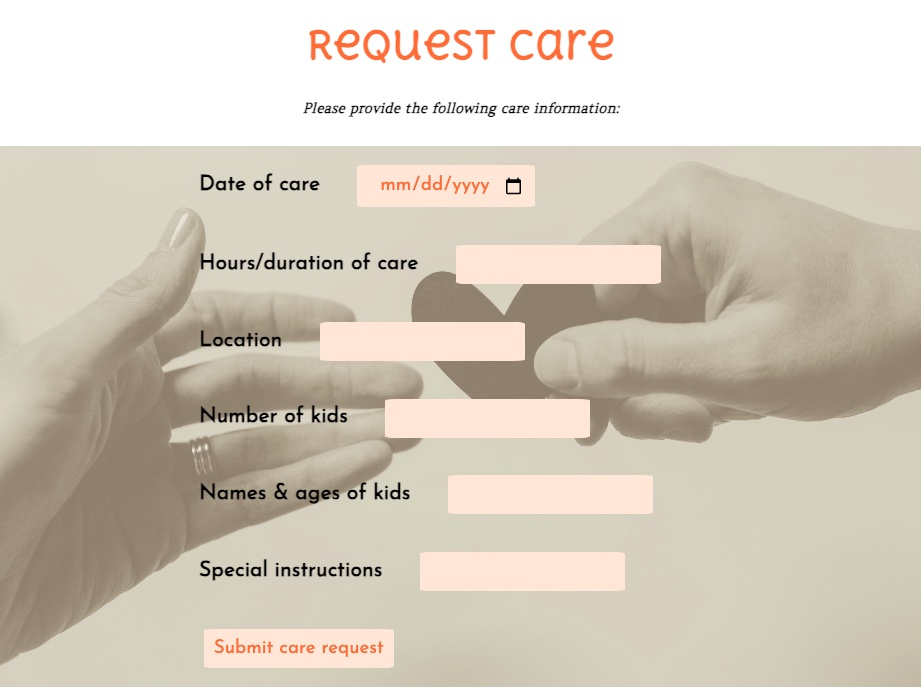
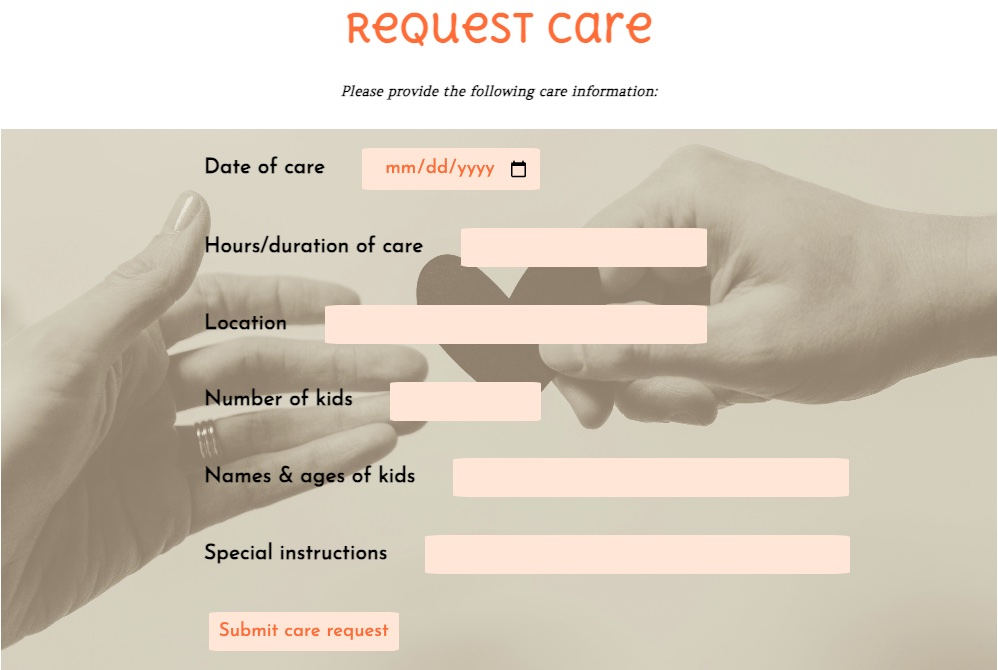
update CSS, views, README, and controllers

diff --git a/controllers/fulfillments.js b/controllers/fulfillments.js
@@ -33,8 +33,6 @@ async function create(req, res) {
 
 async function deleteRequest(req, res) {
   const child = await Child.findOne({ "fulfilled._id": req.params.id, "fulfilled.user": req.user._id });
-  // if (!child) return res.redirect("/children");
-  console.log(`The child object is ${child}`);
   child.fulfilled.remove(req.params.id);
   await child.save();
   res.redirect(`/children/${child._id}`);

diff --git a/controllers/children.js b/controllers/children.js
@@ -39,9 +39,6 @@ async function create(req, res) {
 }
 
 async function deleteRequest(req, res) {
-  const child = await Child.findOne({ _id: req.params.id });
-  if (!child) return res.redirect("/children");
-  child.remove(req.params.id);
-  await child.save();
+  await Child.deleteOne({ _id: req.params.id, user: req.user._id });
   res.redirect("/children");
 }

diff --git a/public/stylesheets/style.css b/public/stylesheets/style.css
@@ -59,7 +59,7 @@ h4 {
   font-size: 4vmin;
 }
 
-input {
+input, button {
   background-color: rgb(255, 229, 212);
   border-radius: 5%;
   border-color: rgb(255, 229, 212);

diff --git a/README.md b/README.md
@@ -4,7 +4,7 @@
 <br />
 <div align="center">
 
-<img src="./public/images/Vibrant_Village_Header.jpg" alt="Vibrant Village" height="200" width="500"/>
+<img src="./public/images/Vibrant_Village_Header.jpg" alt="Vibrant Village" height="150" width="700"/>
 
 <h2 align="center">
     <a href="https://vibrant-village-6e72f0c47e7c.herokuapp.com/" target="_blank" rel="noopener noreferrer" >Vibrant Village</a>
@@ -33,14 +33,14 @@
 
 ## About The Project
 
-<p><span style="font-weight:bold">Raising the next generation doesn't have to take the life out of you.</span>Most modern caregivers don't have access to the village support system of generations past. We created Vibrant Village so that your family can grow and thrive while surrounded by a customizable community of support.</p>
+<p><span style="font-weight:bolder">Raising the next generation doesn't have to take the life out of you.</span> Most modern caregivers don't have access to the village support system of generations past. We created Vibrant Village so that your family can grow and thrive while surrounded by a customizable community of support.</p>
 
 <p align="right">(<a href="#readme-top">back to top</a>)</p>
 
 ## Game Images
 
 <img src="./public/images/Vibrant_Village_Homepage.jpg" alt="Vibrant Village Homepage" height="600" width="450" display="inline-block"/>
-<img src="./public/images/Vibrant_Village_Header.jpg" alt="Vibrant Village Care Needs" height="550" width="480" display="inline-block"/>
+<img src="./public/images/Vibrant_Village_Schedule.jpg" alt="Vibrant Village Care Needs" height="400" width="600" display="inline-block"/>
 <img src="./public/images/Vibrant_Village_Request_Care_Page.jpg" alt="Vibrant Village Request Care Page" height="400" width="550" display="inline-block"/>
 
 <p align="right">(<a href="#readme-top">back to top</a>)</p>
@@ -64,7 +64,7 @@
 <h5>Click <a href="https://vibrant-village-6e72f0c47e7c.herokuapp.com/" target="_blank" rel="noopener noreferrer" >here</a> to visit the site!</h5>
 <ol>
     <li>Log in using your Google account</li>
-    <li>If you are looking to request child care, click the "Request care" button on the home page. Fill out your child care request details, and submit! Delete the care request if care is no longer needed.</li>
+    <li>If you are looking to request child care, click the "Request care" button on the home page. Fill out your child care request details, and submit!</li>
     <li>If you are looking to fulfill another user's child care request, click the "Provide care" button the home page. Review the schedule of care needs to find a date, time, and location that works with your availability, and sign up to provide care. Commitments to provide care can be deleted if you become unavailable.</li>
 </ol>
 
@@ -74,6 +74,7 @@
 
 <h4>In future versions, we hope to roll out the following features:</h4>
 <ul>
+    <li>Users can edit previously submitted care requests.</li>
     <li>Users can create a customized profile of children, preferred care locations, and child care experience and preferences.</li>
     <li>Users can filter care requests by date and time to more easily find a care request that matches their availability.</li>
     <li>Users can receive notifications for care requests when another user signs up to provide care for that request.</li>
